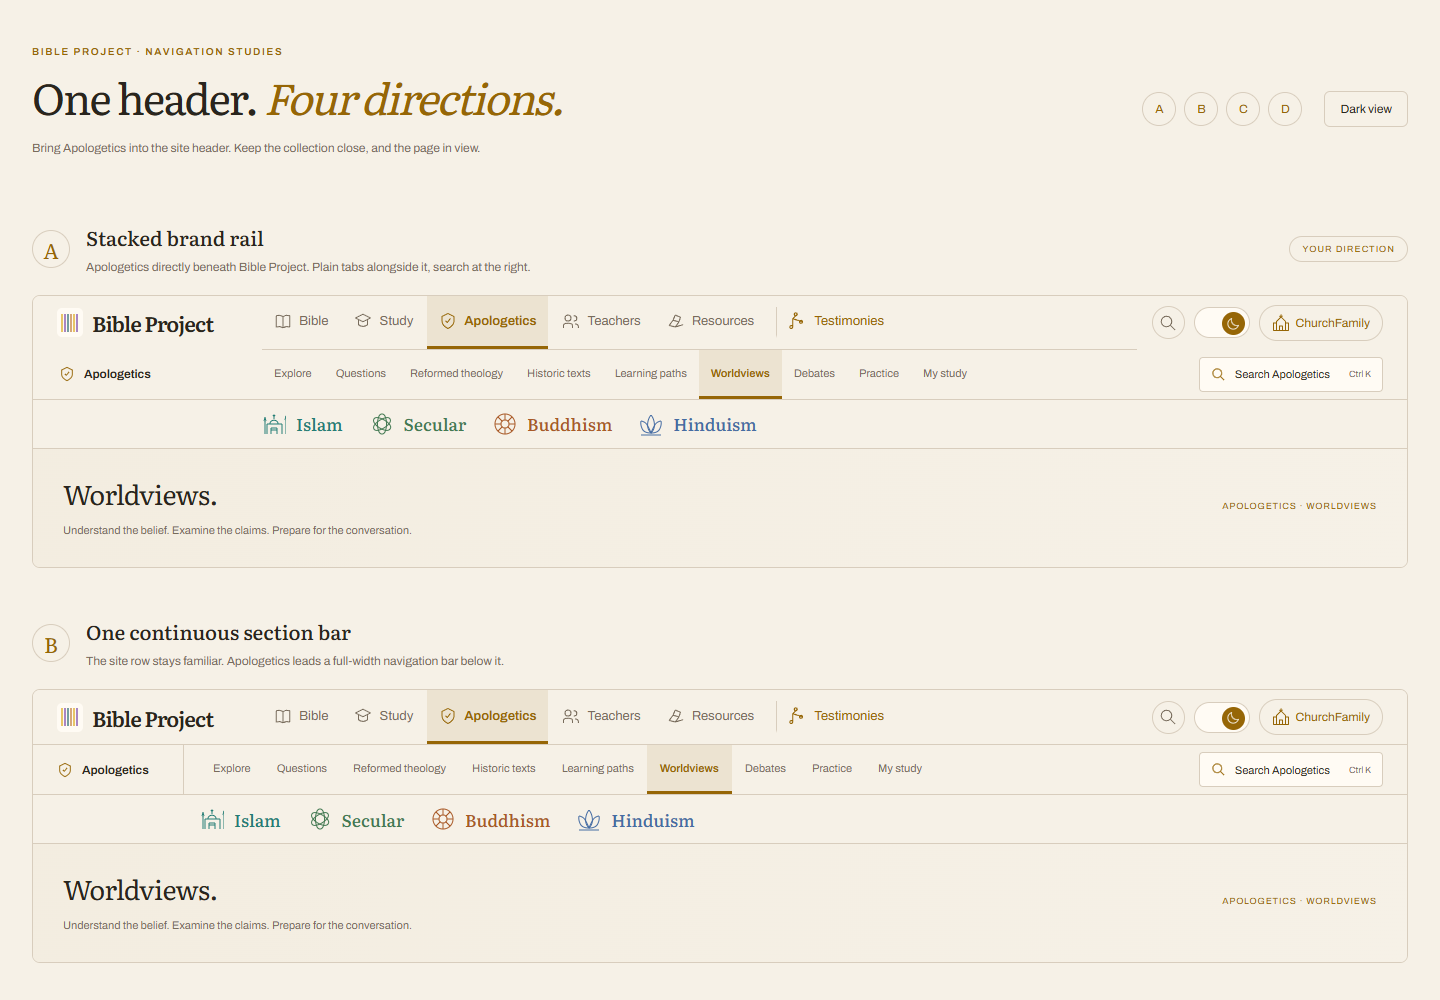
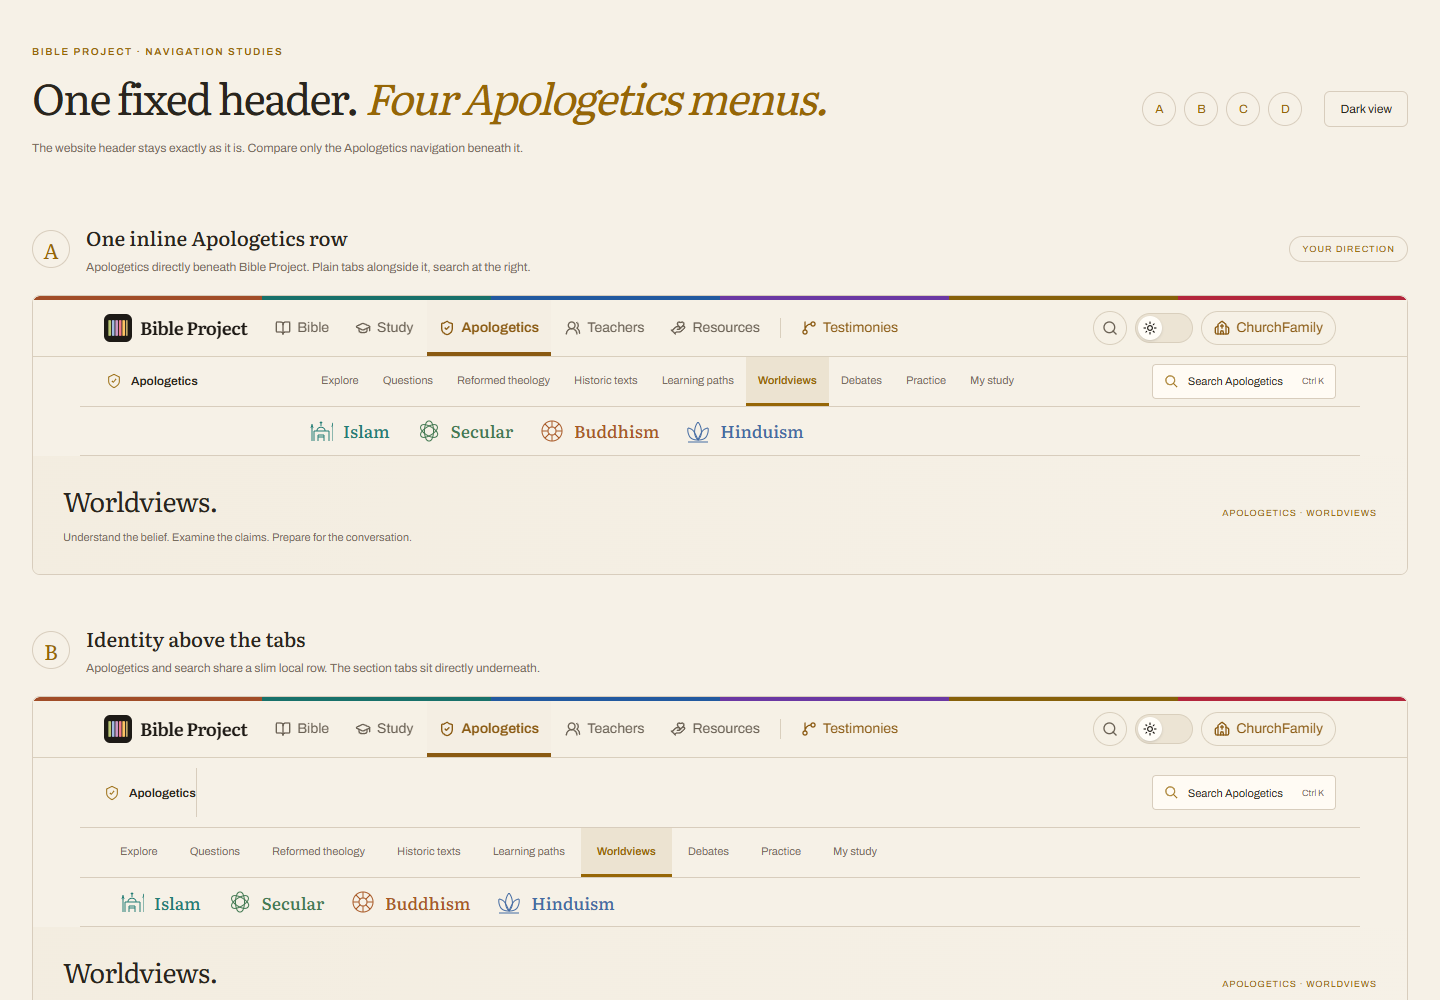
Keep the actual website header unchanged in every mockup

diff --git a/design/header-merger/app.js b/design/header-merger/app.js
@@ -1,28 +1,24 @@
 const paths={book:'M3 5c3-1 6-1 9 1 3-2 6-2 9-1v15c-3-1-6-1-9 1-3-2-6-2-9-1V5Zm9 1v15',study:'m2 8 10-5 10 5-10 5L2 8Zm4 3v6c4 3 8 3 12 0v-6',shield:'m12 2 8 4v6c0 5-4 8-8 10-4-2-8-5-8-10V6l8-4Zm-3 10 2 2 4-5',people:'M8 12a4 4 0 1 0 0-8 4 4 0 0 0 0 8Zm-6 9v-3c0-4 12-4 12 0v3m2-16c5 0 5 7 0 7m2 4c3 0 4 2 4 5',resource:'m3 18 5-7 8 2-5 7-8-2Zm5-7 3-7 7 3-2 6m-5 7 10-3',testimony:'M5 20V9l6-6m-6 6 13 4m-7-10a2 2 0 1 0 0 .1m7 10a2 2 0 1 0 0 .1M5 20a2 2 0 1 0 0 .1',search:'M10 17a7 7 0 1 0 0-14 7 7 0 0 0 0 14Zm5-2 6 6',moon:'M20 14A8 8 0 0 1 10 4a8 8 0 1 0 10 10Z',church:'M2 22h20M6 22V10l6-6 6 6v12m-6-18V1m-2 2h4m-4 19v-6h4v6M2 22V12h4m12 0h4v10',mosque:'M3 22V9m0-4v1m-1 3 1-3 1 3m1 13V12h15v10M8 12c0-5 8-5 8 0m-4-8v3m-1-4 1 1 1-1M9 22v-6h6v6m-6-4h6m9 4V8m-1 0 1-4 1 4',atom:'M12 2c6 0 6 20 0 20s-6-20 0-20Zm-8 5c3-5 20 5 16 10S1 12 4 7Zm0 10C1 12 17 2 20 7S7 22 4 17Zm8-5h.01',wheel:'M12 22a10 10 0 1 0 0-20 10 10 0 0 0 0 20Zm0-6a4 4 0 1 0 0-8 4 4 0 0 0 0 8Zm0-14v6m0 8v6M2 12h6m8 0h6M5 5l4 4m6 6 4 4M5 19l4-4m6-6 4-4',lotus:'M12 21C7 16 8 8 12 3c4 5 5 13 0 18Zm0 0C3 21 1 14 2 9c6 1 8 7 10 12Zm0 0c9 0 11-7 10-12-6 1-8 7-10 12ZM2 23h20'};
 const icon=name=>`<svg viewBox="0 0 24 24" aria-hidden="true"><path d="${paths[name]||paths.book}"/></svg>`;
-const brand=`<a class="site-brand" href="/"><span class="brand-icon"><i></i></span>Bible Project</a>`;
 const section=`<a class="section-brand" href="/apologetics">${icon('shield')}<span>Apologetics</span></a>`;
-const globalItems=[['Bible','book','/bible'],['Study','study','/study'],['Apologetics','shield','/apologetics'],['Teachers','people','/teachers'],['Resources','resource','/resources'],['Testimonies','testimony','/testimonies']];
-const globalNav=()=>`<nav class="global-nav" aria-label="Site navigation">${globalItems.map(([label,i,url])=>`<a href="${url}" ${label==='Apologetics'?'aria-current="page"':''}>${icon(i)}${label}</a>`).join('')}</nav>`;
-const utilities=(search=false)=>`<div class="utilities">${search?searchButton():`<button class="round-action open-search" aria-label="Search Apologetics">${icon('search')}</button>`}<button class="moon-action toggle-theme" aria-label="Toggle theme"><span>${icon('moon')}</span></button><a href="/churchfamily" class="family">${icon('church')}ChurchFamily</a></div>`;
 const searchButton=()=>`<button class="search-button open-search" type="button">${icon('search')}<span>Search Apologetics</span><kbd>Ctrl K</kbd></button>`;
 const tabs=['Explore','Questions','Reformed theology','Historic texts','Learning paths','Worldviews','Debates','Practice','My study'];
 const tabNav=()=>`<nav class="section-tabs" role="tablist" aria-label="Apologetics sections">${tabs.map(label=>`<button role="tab" aria-selected="${label==='Worldviews'}" type="button" data-tab="${label}">${label}</button>`).join('')}</nav>`;
 const worlds=[['Islam','mosque','teal'],['Secular','atom','green'],['Buddhism','wheel','orange'],['Hinduism','lotus','blue']];
 const worldviewRow=()=>worlds.map(([name,i,color])=>`<button type="button" data-world="${name}" aria-pressed="false" style="--world:var(--${color})">${icon(i)}${name}</button>`).join('');
 const options=[
- {id:'a',title:'Stacked brand rail',text:'Apologetics directly beneath Bible Project. Plain tabs alongside it, search at the right.',tag:'Your direction',header:()=>`<div class="global-row">${brand}${globalNav()}${utilities()}</div><div class="section-row">${section}${tabNav()}${searchButton()}</div>`},
- {id:'b',title:'One continuous section bar',text:'The site row stays familiar. Apologetics leads a full-width navigation bar below it.',header:()=>`<div class="global-row">${brand}${globalNav()}${utilities()}</div><div class="section-row">${section}${tabNav()}${searchButton()}</div>`},
- {id:'c',title:'A shared masthead',text:'Both identities live together at the top. The Apologetics tabs have a full row of their own.',header:()=>`<div class="global-row"><div class="paired-brand">${brand}${section}</div>${globalNav()}${utilities()}</div><div class="section-row">${tabNav()}${searchButton()}</div>`},
- {id:'d',title:'A focused reading bar',text:'A lighter site row, a stronger Apologetics identity. Search moves into the upper-right utilities.',header:()=>`<div class="global-row">${brand}${globalNav()}${utilities(true)}</div><div class="section-row">${section}${tabNav()}</div>`}
+ {id:'a',title:'One inline Apologetics row',text:'Apologetics directly beneath Bible Project. Plain tabs alongside it, search at the right.',tag:'Your direction',header:()=>`<div class="section-row">${section}${tabNav()}${searchButton()}</div>`},
+ {id:'b',title:'Identity above the tabs',text:'Apologetics and search share a slim local row. The section tabs sit directly underneath.',header:()=>`<div class="local-masthead">${section}${searchButton()}</div><div class="section-row">${tabNav()}</div>`},
+ {id:'c',title:'Search beside the context',text:'Apologetics and its tabs share the first local row. Search sits beside the worldview choices.',header:()=>`<div class="section-row">${section}${tabNav()}</div>`},
+ {id:'d',title:'A local identity rail',text:'Apologetics anchors the left of its own menu. Tabs and worldview choices line up beside it.',header:()=>`<div class="local-identity-rail">${section}</div><div class="section-row">${tabNav()}${searchButton()}</div>`}
 ];
-document.getElementById('options').innerHTML=options.map(o=>`<section class="option" id="option-${o.id}"><header class="option-description"><span class="option-letter">${o.id.toUpperCase()}</span><div><h2>${o.title}</h2><p>${o.text}</p></div>${o.tag?`<span class="option-tag">${o.tag}</span>`:''}</header><div class="site-preview variant-${o.id}"><header class="merged-header">${o.header()}<nav class="world-row" aria-label="Current section choices">${worldviewRow()}</nav></header><div class="example-content"><div><h3>Worldviews.</h3><p>Understand the belief. Examine the claims. Prepare for the conversation.</p></div><span class="example-note">Apologetics · Worldviews</span></div></div></section>`).join('');
+document.getElementById('options').innerHTML=options.map(o=>`<section class="option" id="option-${o.id}"><header class="option-description"><span class="option-letter">${o.id.toUpperCase()}</span><div><h2>${o.title}</h2><p>${o.text}</p></div>${o.tag?`<span class="option-tag">${o.tag}</span>`:''}</header><div class="site-preview variant-${o.id}"><iframe class="original-site-header" src="/apologetics" title="Existing website header, unchanged" scrolling="no"></iframe><div class="local-navigation">${o.header()}<nav class="world-row" aria-label="Current section choices"><div class="context-options">${worldviewRow()}</div>${o.id==='c'?searchButton():''}</nav></div><div class="example-content"><div><h3>Worldviews.</h3><p>Understand the belief. Examine the claims. Prepare for the conversation.</p></div><span class="example-note">Apologetics &middot; Worldviews</span></div></div></section>`).join('');
 const root=document.documentElement;
-function theme(value){root.dataset.theme=value;document.getElementById('theme').textContent=value==='dark'?'Light view':'Dark view';try{localStorage.setItem('bp-theme',value)}catch{}}
+function theme(value){root.dataset.theme=value;document.getElementById('theme').textContent=value==='dark'?'Light view':'Dark view';try{localStorage.setItem('bp-theme',value)}catch{};document.querySelectorAll('.original-site-header').forEach(frame=>{frame.src='/apologetics?mockupTheme='+value})}
 try{theme(localStorage.getItem('bp-theme')||'dark')}catch{theme('dark')}
 document.querySelectorAll('#theme,.toggle-theme').forEach(button=>button.onclick=()=>theme(root.dataset.theme==='dark'?'light':'dark'));
 const secondary={Explore:['Start here','Explore the questions','Across beliefs'],Questions:['God & belief','Scripture','Jesus Christ','Suffering & evil'], 'Reformed theology':['Reformed questions','Confessions & historic texts'],'Historic texts':['Confessions','Manuscripts','Early Christian writings'],'Learning paths':['Begin here','Reading Scripture','Answering questions'],Debates:['All exchanges','Study the reasoning','Conversation practice'],Practice:['Choose a conversation','Listen & respond','Review your approach'],'My study':['Saved studies','Reading history','Your notes']};
-document.querySelectorAll('[data-tab]').forEach(button=>button.onclick=()=>{const preview=button.closest('.site-preview');preview.querySelectorAll('[data-tab]').forEach(tab=>tab.setAttribute('aria-selected',String(tab===button)));const label=button.dataset.tab;preview.querySelector('.world-row').innerHTML=label==='Worldviews'?worldviewRow():(secondary[label]||[]).map(name=>`<button class="context-chip" type="button">${name}</button>`).join('');preview.querySelector('.example-content h3').textContent=label+'.';preview.querySelector('.example-content p').textContent=label==='Worldviews'?'Understand the belief. Examine the claims. Prepare for the conversation.':'Follow a question into the collection. Find your next place to begin.';preview.querySelector('.example-note').textContent='Apologetics · '+label});
+document.querySelectorAll('[data-tab]').forEach(button=>button.onclick=()=>{const preview=button.closest('.site-preview');preview.querySelectorAll('[data-tab]').forEach(tab=>tab.setAttribute('aria-selected',String(tab===button)));const label=button.dataset.tab;preview.querySelector('.context-options').innerHTML=label==='Worldviews'?worldviewRow():(secondary[label]||[]).map(name=>`<button class="context-chip" type="button">${name}</button>`).join('');preview.querySelector('.example-content h3').textContent=label+'.';preview.querySelector('.example-content p').textContent=label==='Worldviews'?'Understand the belief. Examine the claims. Prepare for the conversation.':'Follow a question into the collection. Find your next place to begin.';preview.querySelector('.example-note').textContent='Apologetics · '+label});
 document.addEventListener('click',event=>{const button=event.target.closest('[data-world]');if(!button)return;button.parentElement.querySelectorAll('[data-world]').forEach(b=>b.setAttribute('aria-pressed',String(b===button)));button.closest('.site-preview').querySelector('.example-content h3').textContent=button.dataset.world+'.'});
 const dialog=document.getElementById('search-dialog'),input=document.getElementById('search-input');const results=[['Explore Apologetics','/apologetics'],['Questions','/apologetics/questions'],['Reformed theology','/apologetics/topics/reformed'],['Historic texts','/apologetics/texts'],['Learning paths','/apologetics/paths'],...worlds.map(([name])=>[name,'/apologetics/worldviews/'+name.toLowerCase()]),['Debates','/apologetics/debates'],['Practice','/apologetics/practice'],['My study','/apologetics/saved']];
 function search(){const matches=results.filter(([name])=>name.toLowerCase().includes(input.value.toLowerCase()));document.getElementById('search-results').innerHTML=matches.length?matches.map(([name,url])=>`<a href="${url}">${name}</a>`).join(''):'<p>No matching destinations.</p>'}

diff --git a/design/header-merger/styles.css b/design/header-merger/styles.css
@@ -14,3 +14,18 @@
 @media(max-width:1200px){.global-nav a{padding-inline:8px;font-size:12px}.global-nav a svg{width:15px}.family{display:none}.section-tabs button{padding-inline:9px}.variant-c .global-row{grid-template-columns:275px minmax(0,1fr) auto}.variant-c .global-nav a{padding-inline:8px}.search-button kbd{display:none}.variant-b .section-tabs button{padding-inline:10px}.variant-d .section-tabs button{padding-inline:12px}}
 @media(max-width:800px){main{padding:28px 14px}.design-intro{display:block;margin-bottom:35px}.design-controls{margin-top:22px;justify-content:space-between}.option-description{align-items:start;gap:11px}.option-description h2{font-size:18px}.option-tag{display:none}.site-brand{font-size:18px}.global-row,.variant-a .global-row,.variant-b .global-row,.variant-c .global-row,.variant-d .global-row{grid-template-columns:minmax(0,1fr) auto;padding:0 14px;gap:10px}.global-nav{grid-row:2;grid-column:1/-1;width:100%;height:40px}.global-row>.site-brand,.paired-brand{padding-block:14px}.global-nav a{font-size:11px;padding:0 12px}.global-nav a:last-child{margin-block:9px}.utilities{grid-column:2;grid-row:1}.round-action{display:none}.section-row,.variant-a .section-row,.variant-b .section-row,.variant-c .section-row,.variant-d .section-row{grid-template-columns:minmax(0,1fr) auto;padding:0 14px;gap:8px}.section-row>.section-brand{grid-column:1;grid-row:1;height:42px;min-height:42px;border:0}.section-row>.search-button{grid-column:2;grid-row:1;font-size:10px;padding:7px 9px}.section-tabs{grid-row:2;grid-column:1/-1;height:44px}.variant-c .section-tabs{grid-column:1;grid-row:1}.variant-c .section-row{grid-template-columns:minmax(0,1fr) 34px}.variant-c .section-row .search-button{width:34px;padding:8px}.variant-c .section-row .search-button span{display:none}.variant-c .paired-brand{gap:11px}.variant-c .paired-brand .section-brand{font-size:10px;padding-left:10px}.variant-c .site-brand{font-size:16px}.variant-c .brand-icon{width:22px}.variant-c .moon-action{width:34px}.variant-d .global-row .search-button{width:34px;padding:8px}.variant-d .global-row .search-button span{display:none}.variant-d .global-row .moon-action{display:none}.variant-d .section-tabs{height:44px}.variant-d .section-brand{font-size:16px}.world-row,.variant-a .world-row,.variant-b .world-row,.variant-c .world-row,.variant-d .world-row{padding-left:14px;gap:22px;min-height:46px}.world-row button{font-size:15px;gap:7px}.world-row button svg{width:21px;height:21px}.example-content{padding:22px 16px}.example-content h3{font-size:23px}.example-content .example-note{display:none}.option{margin-bottom:38px}}
 @media(prefers-reduced-motion:reduce){*{scroll-behavior:auto!important;transition:none!important}}
+
+/* The real website header is embedded unchanged in each option. Only local navigation varies. */
+.original-site-header{display:block;width:100%;height:61px;border:0;background:var(--page)}
+.local-navigation{border-bottom:1px solid var(--line)}
+.context-options{display:flex;align-items:center;gap:27px;min-width:0;overflow:auto;scrollbar-width:none}
+.world-row{justify-content:space-between}.world-row>.search-button{margin-left:auto;font:11px Archivo,Arial,sans-serif;color:var(--ink);padding:8px 11px}.world-row>.search-button svg{width:15px;height:15px}
+.variant-a .section-row{grid-template-columns:190px minmax(0,1fr) auto;border-top:0}
+.variant-b .local-masthead{display:flex;justify-content:space-between;align-items:center;padding:10px 24px;border-bottom:1px solid var(--line)}
+.variant-b .section-row{grid-template-columns:minmax(0,1fr);border-top:0}.variant-b .section-tabs button{padding-inline:16px}.variant-b .world-row{padding-left:40px}
+.variant-c .section-row{grid-template-columns:155px minmax(0,1fr);border-top:0}.variant-c .section-tabs button{background:transparent}.variant-c .world-row{padding-left:194px}
+.variant-d .local-navigation{display:grid;grid-template-columns:170px minmax(0,1fr)}.variant-d .local-identity-rail{grid-row:1/span 2;display:flex;align-items:center;border-right:1px solid var(--line);padding:0 20px;background:var(--surface)}.variant-d .section-row{grid-template-columns:minmax(0,1fr) auto;padding:0 14px;background:var(--page);gap:10px;border-top:0}.variant-d .world-row{grid-column:2;padding-left:28px}.variant-d .section-tabs button{font-size:11px;padding-inline:11px}.variant-d .section-brand{font:600 12px Archivo,Arial,sans-serif}
+@media(max-width:800px){.original-site-header{height:61px}.variant-a .section-row{grid-template-columns:minmax(0,1fr) auto}.context-options{gap:22px}.variant-b .local-masthead{padding:10px 14px}.variant-b .section-row{display:block}.variant-c .section-row{grid-template-columns:minmax(0,1fr)}.variant-c .section-tabs{grid-row:2;grid-column:1}.variant-c .world-row{padding-left:14px;gap:12px}.variant-c .world-row>.search-button span{display:none}.variant-c .world-row>.search-button{width:34px;flex-shrink:0;padding:8px}.variant-d .local-navigation{display:block}.variant-d .local-identity-rail{padding:0 14px;border-right:0;border-bottom:1px solid var(--line);height:42px}.variant-d .section-row{grid-template-columns:minmax(0,1fr) 34px}.variant-d .section-tabs{grid-column:1;grid-row:1}.variant-d .section-row>.search-button{grid-column:2;grid-row:1;padding:8px;width:34px}.variant-d .section-row>.search-button span{display:none}.variant-d .world-row{padding-left:14px}}
+
+/* Match the original header content width, so Apologetics sits beneath its brand. */
+.local-navigation{max-width:1280px;margin-inline:auto}

diff --git a/design/header-merger/index.html b/design/header-merger/index.html
@@ -1,4 +1,4 @@
 <!doctype html>
 <html lang="en"><head><meta charset="utf-8"><meta name="viewport" content="width=device-width,initial-scale=1"><title>Header merger &middot; Four Apologetics options</title><link rel="icon" href="/favicon.svg"><link rel="stylesheet" href="./styles.css"></head>
-<body><main><header class="design-intro"><div><p class="eyebrow">Bible Project &middot; Navigation studies</p><h1>One header.<em> Four directions.</em></h1><p>Bring Apologetics into the site header. Keep the collection close, and the page in view.</p></div><div class="design-controls"><nav aria-label="Jump to an option"><a href="#option-a">A</a><a href="#option-b">B</a><a href="#option-c">C</a><a href="#option-d">D</a></nav><button id="theme" type="button">Light view</button></div></header><div id="options"></div><footer class="design-footer">Header merger &middot; Four working navigation prototypes <a href="/mockups/">All mockups</a></footer></main>
+<body><main><header class="design-intro"><div><p class="eyebrow">Bible Project &middot; Navigation studies</p><h1>One fixed header.<em> Four Apologetics menus.</em></h1><p>The website header stays exactly as it is. Compare only the Apologetics navigation beneath it.</p></div><div class="design-controls"><nav aria-label="Jump to an option"><a href="#option-a">A</a><a href="#option-b">B</a><a href="#option-c">C</a><a href="#option-d">D</a></nav><button id="theme" type="button">Light view</button></div></header><div id="options"></div><footer class="design-footer">Header merger &middot; Four working navigation prototypes <a href="/mockups/">All mockups</a></footer></main>
 <dialog id="search-dialog"><div class="dialog-title"><div><p class="eyebrow">Apologetics</p><h2>Find your way in.</h2></div><button id="close-search" aria-label="Close search">?</button></div><label for="search-input">Search Apologetics</label><input id="search-input" type="search" placeholder="Questions, worldviews, paths?"><div id="search-results"></div></dialog><script src="./app.js"></script></body></html>

diff --git a/design/header-merger/README.md b/design/header-merger/README.md
@@ -1,9 +1,9 @@
-# Header merger ? four Apologetics prototypes
+# Apologetics navigation under the unchanged website header
 
-Owner request, 2026-10-11. One page at `/mockups/header-merger/` contains A?D.
+Owner correction, 2026-10-11: DO NOT ALTER THE WEBSITE HEADER IN ANY MOCKUP. These are four arrangements of Apologetics navigation only, beneath the real, unchanged header.
 
-A follows the requested stacked identity: Apologetics mark and text beneath Bible Project, plain local tabs without dropdown arrows, search on the right, and no source-room shortcut. B uses a continuous section bar, C joins the identities in the masthead, and D moves search to the top-right beside a compact site row.
+Each preview embeds the actual `/apologetics` page header in an isolated 61px frame. The website header markup, CSS, fonts, branding, navigation, utilities and responsive behavior are not recreated or modified. All four show the same original header.
 
-All four share the current section names and Worldviews choices. Tabs update their own local preview; the search dialog filters real destinations. Global links and search results lead into the existing app. Theme controls, keyboard search and horizontally scrolling menus support smaller widths. These are mockups only; production navigation is not changed.
+A: Apologetics identity under Bible Project, plain tabs and right-aligned local search. B: local identity/search row above tabs. C: search beside the worldview context row. D: local identity rail beside tabs and context. These layouts vary only below the website header. No proposal to modify the website header exists.
 
-Verification: `node design/header-merger/verify.mjs` passed eight size/theme combinations. Full-page and per-option captures live in `design/review/header-merger/`, with gallery thumbnails in `design/_gallery/thumbs/`. Gallery-wide inventory check currently reports unrelated unlisted legacy folders; this new page is registered.
+Run `node design/header-merger/verify.mjs` for responsive/theme and interaction checks.
